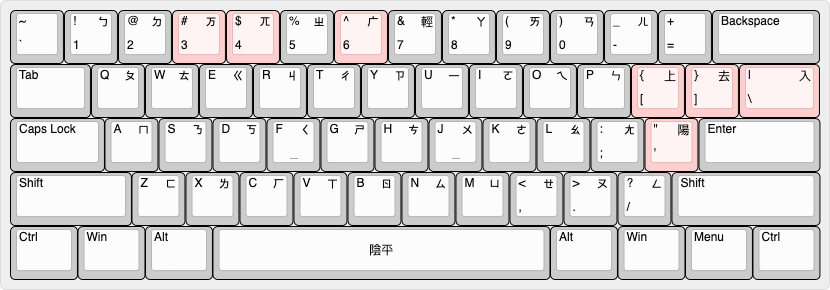
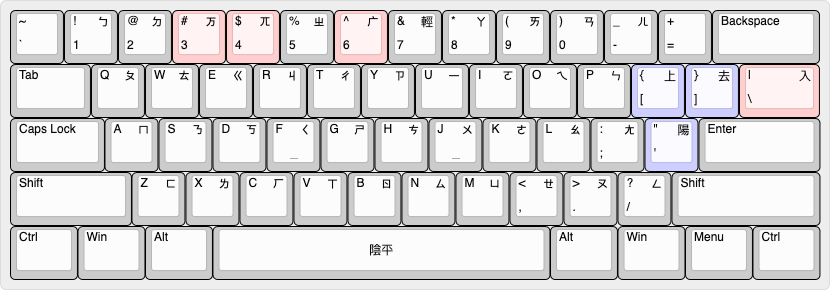
修改說明

Changed region(s): [[0.753, 0.2172, 0.9036, 0.5897]]

diff --git a/README.md b/README.md
@@ -10,8 +10,10 @@
 ### 目前支援的輸入方案
 - [注音 大千兼容式](#5jup)
   -  `./bepemefeve_5jup.schema.yaml`
-  - [注音 大千式(改)](#5jup_mod)
+- [注音 大千式改](#5jup_mod)
   -  `./bepemefeve_5jup_mod.schema.yaml`
+- [注音 類大千式](#5jup)
+  -  `./bepemefeve_5jup_like.schema.yaml`
 - [國語羅馬字](#romatzyh)
   - `./bepemefeve_gr.schema.yaml`
   - `./bepemefeve_gr_atonal.schema.yaml`
@@ -31,14 +33,14 @@
 
 <a name="5jup"></a>
 ### 大千兼容式
-不增加按鍵，兼容現有大千式軟鍵盤：
+**不增加按鍵，兼容現有大千式軟鍵盤：**
 - ㄪ：Shift+ㄈ（ㄈ的濁化）
 - ㄬ：Shift+ㄋ（ㄋ的腭化）
 - ㄫ：Shift+ㄇ（用軟腭位置發類似ㄇ的鼻音）
 - 輕聲鍵（數字鍵7）同時兼任入聲鍵：標在字頭爲輕音，標在字尾爲入聲
 
 ![](assets/keyboard-layout-bepemefeve-5jup.png)\
-*「大千兼容式」鍵盤排列（紅色高亮按鍵不同於標準「大千式」）*
+*「大千兼容式」鍵盤排列（高亮的按鍵不同於標準「大千式」）*
 
 配方位置：`./bepemefeve_5jup.schema.yaml`\
 碼表位置：`./bepemefeve.dict.yaml`
@@ -47,7 +49,7 @@
 ### 大千式改
 鍵盤排列除了聲調部分以外，跟「大千式」完全一致。
 
-若不考慮聲調部分，可以算作兼容現有大千式軟鍵盤
+**若不考慮聲調部分，兼容現有大千式軟鍵盤**
 
 具體是在「大千式」的基礎上作了以下修改：
 - `3`、`4`、`6`鍵（原`ˇ`上聲、`ˋ`去聲、`ˊ`陽平）用作輸入ㄪ、ㄫ、ㄬ
@@ -55,9 +57,39 @@
 - 輕音現在亦可以標在字頭
 
 ![](assets/keyboard-layout-bepemefeve-5jup-mod.png)\
-*「大千式改」鍵盤排列（紅色高亮按鍵不同於標準「大千式」）*
+*「大千式改」鍵盤排列（高亮的按鍵不同於標準「大千式」）*
 
 配方位置：`./bepemefeve_5jup_mod.schema.yaml`\
+碼表位置：`./bepemefeve.dict.yaml`
+
+<a name="5jup_like"></a>
+### 類大千式
+鍵盤盡量根據1920年的舊注音字母表順序（ㄪ、ㄦ兩母除外）重新排列：
+
+    1QAZ ㄅㄆㄇㄈ
+    2WSX ㄉㄊㄋㄌ
+    3EDC ㄍㄎㄫㄏ
+    4RFV ㄐㄑㄬㄒ
+    5TGB ㄓㄔㄕㄖ
+    6YHN ㄪㄗㄘㄙ
+    7UJM ㄦㄧㄨㄩ /* ㄦ跟ㄖ在各種拼音方案中經常會共用同一個字母R，如此排列後，ㄦ差不多位於ㄖ的正上方）*/
+    8IK, ㄚㄛㄜㄝ
+    9OL. ㄞㄟㄠㄡ
+    0P;/ ㄢㄣㄤㄥ
+    '[-=] 陰陽上去入 /* 按鍵位置如「四聲點聲法」 */
+
+![](assets/keyboard-layout-bepemefeve-5jup-like.png)\
+*「類大千式」鍵盤排列（高亮的按鍵不同於標準「大千式」）*
+
+- 多出來的ㄪ、ㄦ兩母依照「聲韻調分區」原則，排在ㄗ行聲母和介母行的上方
+- ㄍ、ㄎ、ㄐ、ㄑ四母各自向上平移一鍵
+- 陰平聲與輕音共用按鍵`'`，標在字尾爲陰平聲，標在字頭爲輕音
+
+不同於通常的注音輸入法，本輸入方案以【空格鍵】選詞
+
+
+
+配方位置：`./bepemefeve_5jup_like.schema.yaml`\
 碼表位置：`./bepemefeve.dict.yaml`
 
 
